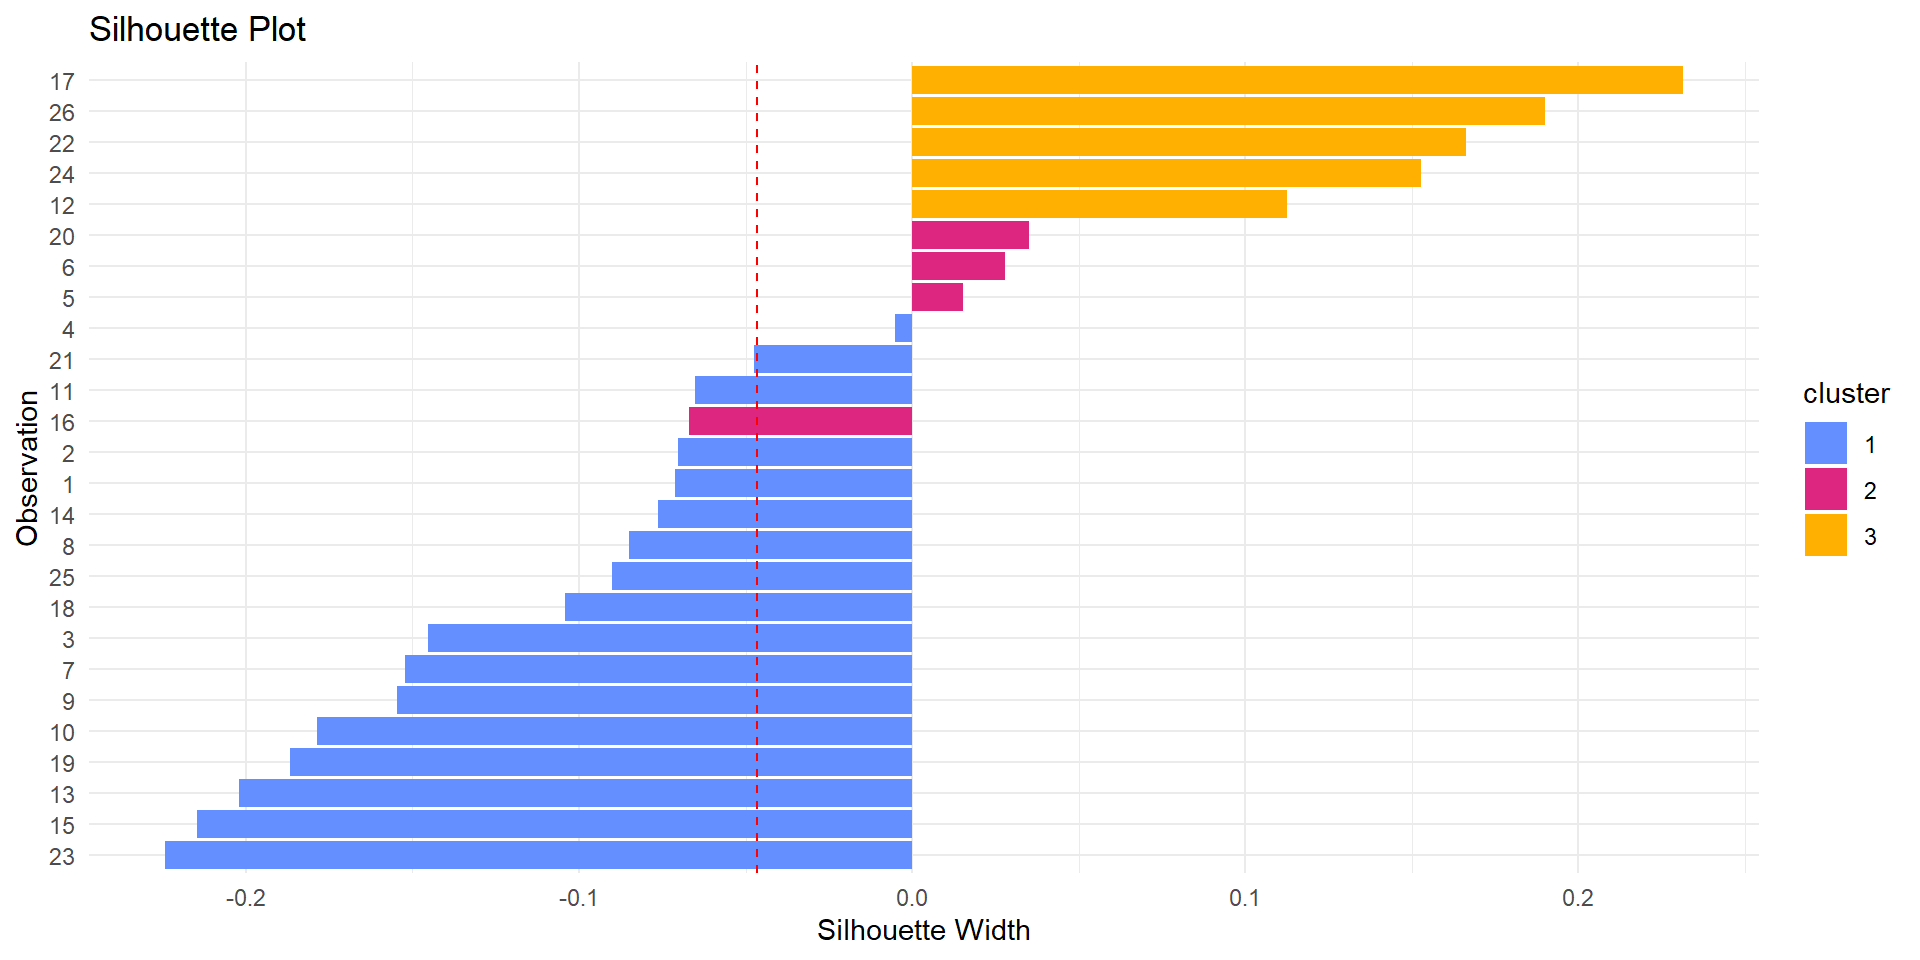
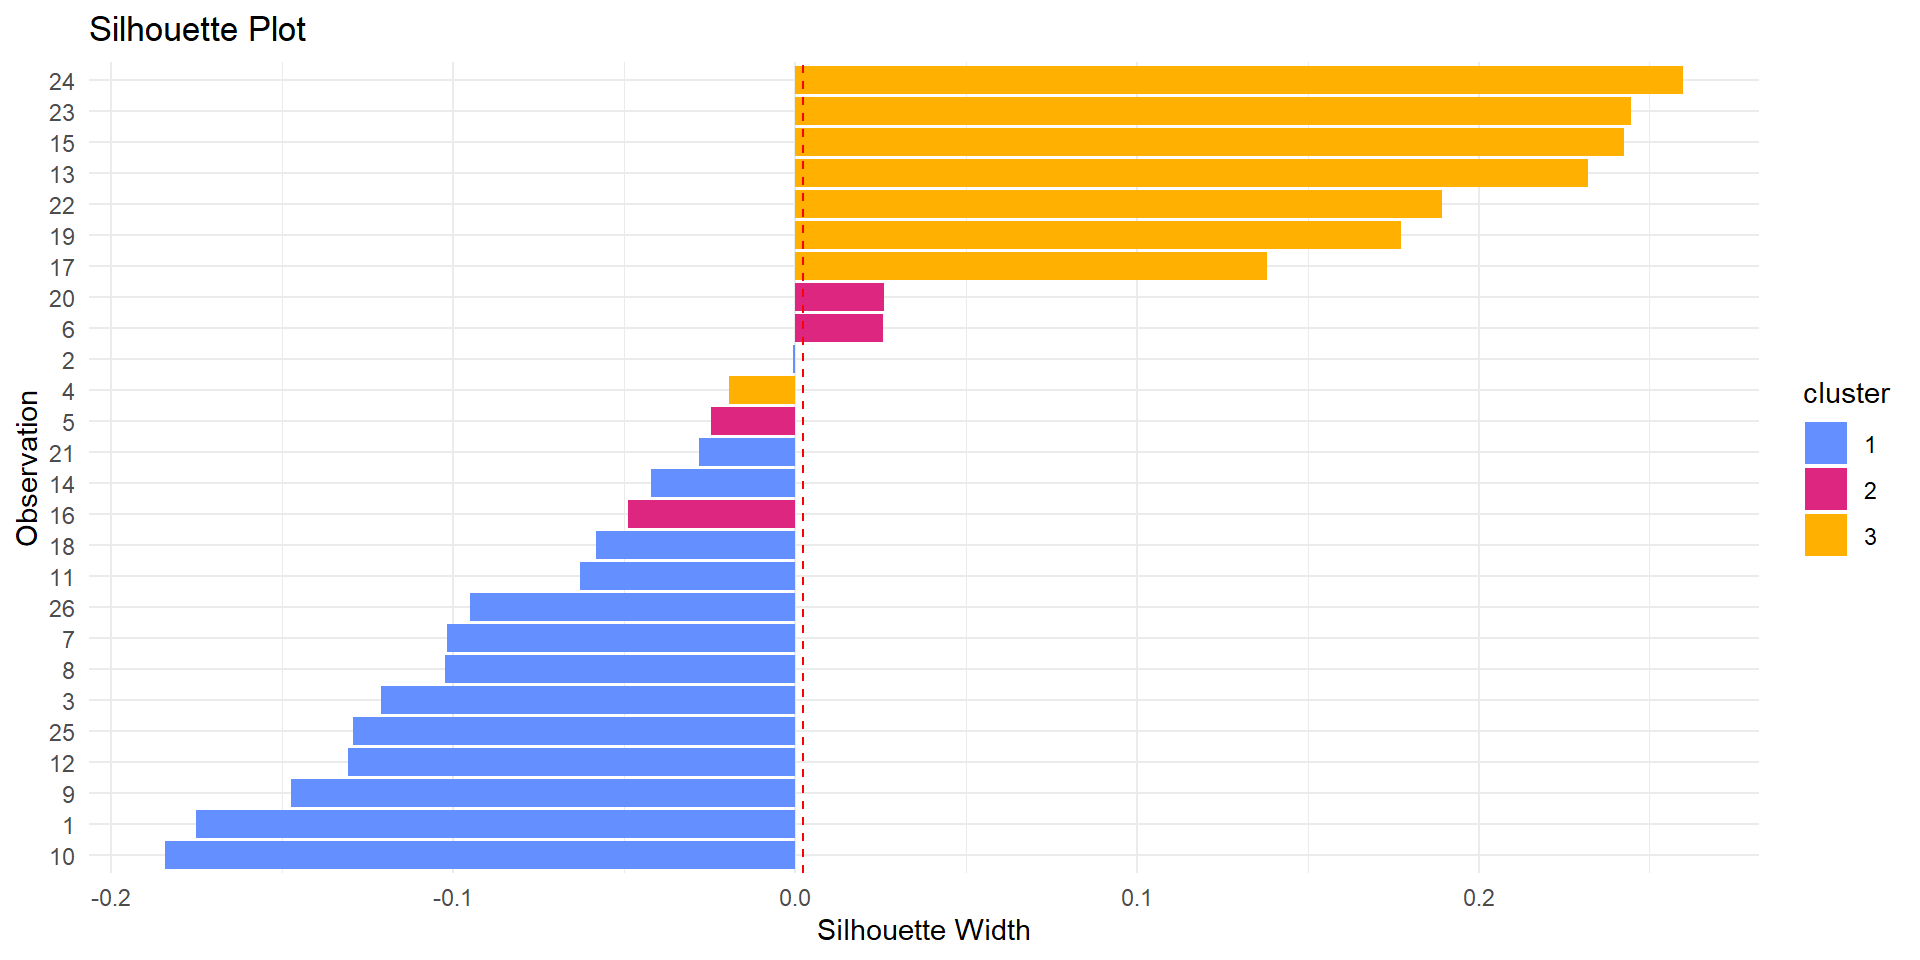
cleaning up the fuzzy section

Changed region(s): [[0.1875, 0.0625, 0.875, 0.9062], [0.125, 0.75, 0.1875, 0.8438]]

diff --git a/Text/Reports/Presentation.html b/Text/Reports/Presentation.html
@@ -1807,8 +1807,8 @@ Gaia Smith and Alice Thompson
 </div>
 </div>
 </section>
-<section id="lda" class="title-slide slide level1 center">
-<h1>3. LDA</h1>
+<section id="lda-cluster-analysis" class="title-slide slide level1 center">
+<h1>3. LDA &amp; Cluster analysis</h1>
 
 </section>
 
@@ -1843,45 +1843,45 @@ Gaia Smith and Alice Thompson
 <tbody>
 <tr class="odd">
 <td style="text-align: left;">2</td>
-<td style="text-align: right;">0.3808610</td>
-<td style="text-align: right;">0.3352282</td>
-<td style="text-align: right;">0.2839108</td>
+<td style="text-align: right;">0.3642165</td>
+<td style="text-align: right;">0.3205779</td>
+<td style="text-align: right;">0.3152056</td>
 </tr>
 <tr class="even">
 <td style="text-align: left;">3</td>
-<td style="text-align: right;">0.3994904</td>
-<td style="text-align: right;">0.2979197</td>
-<td style="text-align: right;">0.3025900</td>
+<td style="text-align: right;">0.4192879</td>
+<td style="text-align: right;">0.3126837</td>
+<td style="text-align: right;">0.2680284</td>
 </tr>
 <tr class="odd">
 <td style="text-align: left;">5</td>
-<td style="text-align: right;">0.3951292</td>
-<td style="text-align: right;">0.3486303</td>
-<td style="text-align: right;">0.2562405</td>
+<td style="text-align: right;">0.3964731</td>
+<td style="text-align: right;">0.3498160</td>
+<td style="text-align: right;">0.2537109</td>
 </tr>
 <tr class="even">
 <td style="text-align: left;">6</td>
-<td style="text-align: right;">0.3964214</td>
-<td style="text-align: right;">0.3005436</td>
-<td style="text-align: right;">0.3030350</td>
+<td style="text-align: right;">0.3564183</td>
+<td style="text-align: right;">0.2702156</td>
+<td style="text-align: right;">0.3733661</td>
 </tr>
 <tr class="odd">
 <td style="text-align: left;">8</td>
-<td style="text-align: right;">0.3548860</td>
-<td style="text-align: right;">0.4016243</td>
-<td style="text-align: right;">0.2434897</td>
+<td style="text-align: right;">0.3731855</td>
+<td style="text-align: right;">0.4223339</td>
+<td style="text-align: right;">0.2044806</td>
 </tr>
 <tr class="even">
 <td style="text-align: left;">9</td>
-<td style="text-align: right;">0.3448716</td>
-<td style="text-align: right;">0.3954432</td>
-<td style="text-align: right;">0.2596851</td>
+<td style="text-align: right;">0.3308487</td>
+<td style="text-align: right;">0.3793640</td>
+<td style="text-align: right;">0.2897873</td>
 </tr>
 <tr class="odd">
 <td style="text-align: left;">10</td>
-<td style="text-align: right;">0.3987019</td>
-<td style="text-align: right;">0.3428947</td>
-<td style="text-align: right;">0.2584034</td>
+<td style="text-align: right;">0.3972201</td>
+<td style="text-align: right;">0.3416203</td>
+<td style="text-align: right;">0.2611597</td>
 </tr>
 <tr class="even">
 <td style="text-align: left;">11</td>
@@ -1891,33 +1891,33 @@ Gaia Smith and Alice Thompson
 </tr>
 <tr class="odd">
 <td style="text-align: left;">12</td>
-<td style="text-align: right;">0.4590163</td>
-<td style="text-align: right;">0.1666023</td>
-<td style="text-align: right;">0.3743813</td>
+<td style="text-align: right;">0.5056657</td>
+<td style="text-align: right;">0.1835340</td>
+<td style="text-align: right;">0.3108003</td>
 </tr>
 <tr class="even">
 <td style="text-align: left;">15</td>
-<td style="text-align: right;">0.4064680</td>
-<td style="text-align: right;">0.2860789</td>
-<td style="text-align: right;">0.3074530</td>
+<td style="text-align: right;">0.3788758</td>
+<td style="text-align: right;">0.2666590</td>
+<td style="text-align: right;">0.3544652</td>
 </tr>
 <tr class="odd">
 <td style="text-align: left;">16</td>
-<td style="text-align: right;">0.3951507</td>
-<td style="text-align: right;">0.3586247</td>
-<td style="text-align: right;">0.2462246</td>
+<td style="text-align: right;">0.3814978</td>
+<td style="text-align: right;">0.3462338</td>
+<td style="text-align: right;">0.2722684</td>
 </tr>
 <tr class="even">
 <td style="text-align: left;">18</td>
-<td style="text-align: right;">0.2977457</td>
-<td style="text-align: right;">0.2699617</td>
-<td style="text-align: right;">0.4322926</td>
+<td style="text-align: right;">0.3558813</td>
+<td style="text-align: right;">0.3226723</td>
+<td style="text-align: right;">0.3214464</td>
 </tr>
 <tr class="odd">
 <td style="text-align: left;">20</td>
-<td style="text-align: right;">0.4236822</td>
-<td style="text-align: right;">0.2260882</td>
-<td style="text-align: right;">0.3502296</td>
+<td style="text-align: right;">0.0000000</td>
+<td style="text-align: right;">0.0000000</td>
+<td style="text-align: right;">1.0000000</td>
 </tr>
 </tbody>
 </table>
@@ -1942,15 +1942,15 @@ Gaia Smith and Alice Thompson
 <tbody>
 <tr class="odd">
 <td style="text-align: left;">23</td>
-<td style="text-align: right;">0.4050991</td>
-<td style="text-align: right;">0.3441944</td>
-<td style="text-align: right;">0.2507065</td>
+<td style="text-align: right;">0.4224857</td>
+<td style="text-align: right;">0.3589670</td>
+<td style="text-align: right;">0.2185473</td>
 </tr>
 <tr class="even">
 <td style="text-align: left;">24</td>
-<td style="text-align: right;">0.3767881</td>
-<td style="text-align: right;">0.2828230</td>
-<td style="text-align: right;">0.3403890</td>
+<td style="text-align: right;">0.3166053</td>
+<td style="text-align: right;">0.2376488</td>
+<td style="text-align: right;">0.4457459</td>
 </tr>
 <tr class="odd">
 <td style="text-align: left;">26</td>
@@ -1960,63 +1960,63 @@ Gaia Smith and Alice Thompson
 </tr>
 <tr class="even">
 <td style="text-align: left;">27</td>
-<td style="text-align: right;">0.0000000</td>
-<td style="text-align: right;">0.0000000</td>
-<td style="text-align: right;">1.0000000</td>
+<td style="text-align: right;">0.3161169</td>
+<td style="text-align: right;">0.2755752</td>
+<td style="text-align: right;">0.4083079</td>
 </tr>
 <tr class="odd">
 <td style="text-align: left;">29</td>
-<td style="text-align: right;">0.3759377</td>
-<td style="text-align: right;">0.3380885</td>
-<td style="text-align: right;">0.2859738</td>
+<td style="text-align: right;">0.3857492</td>
+<td style="text-align: right;">0.3469122</td>
+<td style="text-align: right;">0.2673387</td>
 </tr>
 <tr class="even">
 <td style="text-align: left;">30</td>
-<td style="text-align: right;">0.3446866</td>
-<td style="text-align: right;">0.3239112</td>
-<td style="text-align: right;">0.3314023</td>
+<td style="text-align: right;">0.3323539</td>
+<td style="text-align: right;">0.3123218</td>
+<td style="text-align: right;">0.3553243</td>
 </tr>
 <tr class="odd">
 <td style="text-align: left;">31</td>
-<td style="text-align: right;">0.3267719</td>
-<td style="text-align: right;">0.3715135</td>
-<td style="text-align: right;">0.3017146</td>
+<td style="text-align: right;">0.3341482</td>
+<td style="text-align: right;">0.3798999</td>
+<td style="text-align: right;">0.2859519</td>
 </tr>
 <tr class="even">
 <td style="text-align: left;">32</td>
-<td style="text-align: right;">0.3975712</td>
-<td style="text-align: right;">0.3146435</td>
-<td style="text-align: right;">0.2877853</td>
+<td style="text-align: right;">0.3863466</td>
+<td style="text-align: right;">0.3057601</td>
+<td style="text-align: right;">0.3078933</td>
 </tr>
 <tr class="odd">
 <td style="text-align: left;">33</td>
-<td style="text-align: right;">0.3103118</td>
-<td style="text-align: right;">0.3264398</td>
-<td style="text-align: right;">0.3632485</td>
+<td style="text-align: right;">0.3072383</td>
+<td style="text-align: right;">0.3232066</td>
+<td style="text-align: right;">0.3695551</td>
 </tr>
 <tr class="even">
 <td style="text-align: left;">34</td>
-<td style="text-align: right;">0.3529295</td>
-<td style="text-align: right;">0.3142389</td>
-<td style="text-align: right;">0.3328316</td>
+<td style="text-align: right;">0.3259026</td>
+<td style="text-align: right;">0.2901749</td>
+<td style="text-align: right;">0.3839225</td>
 </tr>
 <tr class="odd">
 <td style="text-align: left;">35</td>
-<td style="text-align: right;">0.3675679</td>
-<td style="text-align: right;">0.2596316</td>
-<td style="text-align: right;">0.3728005</td>
+<td style="text-align: right;">0.3335817</td>
+<td style="text-align: right;">0.2356255</td>
+<td style="text-align: right;">0.4307928</td>
 </tr>
 <tr class="even">
 <td style="text-align: left;">36</td>
-<td style="text-align: right;">0.4021137</td>
-<td style="text-align: right;">0.2949173</td>
-<td style="text-align: right;">0.3029690</td>
+<td style="text-align: right;">0.4045562</td>
+<td style="text-align: right;">0.2967087</td>
+<td style="text-align: right;">0.2987351</td>
 </tr>
 <tr class="odd">
 <td style="text-align: left;">37</td>
-<td style="text-align: right;">0.3269203</td>
-<td style="text-align: right;">0.2356503</td>
-<td style="text-align: right;">0.4374294</td>
+<td style="text-align: right;">0.3983628</td>
+<td style="text-align: right;">0.2871473</td>
+<td style="text-align: right;">0.3144899</td>
 </tr>
 </tbody>
 </table>
@@ -2027,20 +2027,12 @@ Gaia Smith and Alice Thompson
 <section id="fuzzy-analysis" class="slide level2">
 <h2>3.3 Fuzzy Analysis</h2>
 
-<img data-src="Presentation_files/figure-revealjs/fuzzy1-1.png" width="960" class="r-stretch"></section>
+<img data-src="Presentation_files/figure-revealjs/fuzzy2-1.png" width="960" class="r-stretch"></section>
 <section id="fuzzy-analysis-1" class="slide level2">
 <h2>3.3 Fuzzy Analysis</h2>
 
-<img data-src="Presentation_files/figure-revealjs/fuzzy2-1.png" width="960" class="r-stretch"></section>
-<section id="fuzzy-analysis-2" class="slide level2">
-<h2>3.3 Fuzzy Analysis</h2>
-
-<img data-src="Presentation_files/figure-revealjs/fuzzy3-1.png" width="960" class="r-stretch"></section>
-<section id="fuzzy-analysis-3" class="slide level2">
-<h2>3.3 Fuzzy Analysis</h2>
-
 <img data-src="https://raw.githubusercontent.com/luke8471/STAT394-GROUP-3/main/Figures/Avg%20width%20of%20cluster.png" class="r-stretch"></section>
-<section id="fuzzy-analysis-4" class="slide level2">
+<section id="fuzzy-analysis-2" class="slide level2">
 <h2>3.3 Fuzzy Analysis</h2>
 
 <img data-src="https://raw.githubusercontent.com/luke8471/STAT394-GROUP-3/main/Figures/Fuzzy.png" class="r-stretch"></section>
@@ -2098,9 +2090,11 @@ Vungarala, S. K. (2023). <em><span>P</span><span>C</span><span>A</span> vs <span
 </div>
 </div>
 </section>
-<section id="any-questions" class="slide level2 center">
-<h2>7. Any Questions</h2>
+<section id="any-questions" class="title-slide slide level1 center">
+<h1>7. Any Questions</h1>
+
 </section>
+
 
     </div>
   <div class="quarto-auto-generated-content" style="display: none;">
